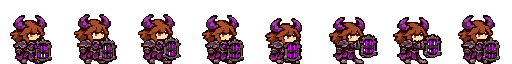
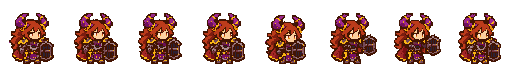
헬가 애니 시트 새 그림 기준으로 교체

diff --git a/개발일지/2026-11-25/이미지.md b/개발일지/2026-11-25/이미지.md
@@ -145,3 +145,9 @@
 - DPS 아이콘 4종 16×16: img/p/dps_deal/heal/block/taken.png. UI가 dtIc의 SVG를 이 그림으로 교체.
 - 유튜브 프로필: 홍보/소스/채널/프로필.png(800×800). 마스코트=검은 파마머리·안경·검은 후디(노랑 브릿지), 외곽선 덧그림.
 - 레인저 머리 축소: 도트 축소는 얼굴이 일그러져 폐기. 코덱스로 기준 얼굴 유지 요청해 시안 img/codex/retouch/ranger_codex.png(확인 대기).
+
+## 헬가 애니 시트 새로 + 방패 구멍 + 타이라 귀 보정
+- 헬가(gate) 정지 그림의 방패·가슴 안쪽 구멍(배경이 비치던 곳)을 어두운 보라로 채움(바깥과 이어지지 않는 빈 칸만).
+- 헬가 애니 8칸: 새 그림(B안) 기준으로 코덱스 재생성, 구멍 채움 + 외곽선 #431402 통일. 옛것 gate_anim_v1.png.
+- 타이라 애니 귀를 칸마다 눈 위치(dy 0~1)에 맞춰 다시 그림 → 귀가 머리와 같이 움직임.
+- 원인 메모: fillholes(투명 구멍 채움)는 앞으로 코덱스 결과에 같이 적용.
